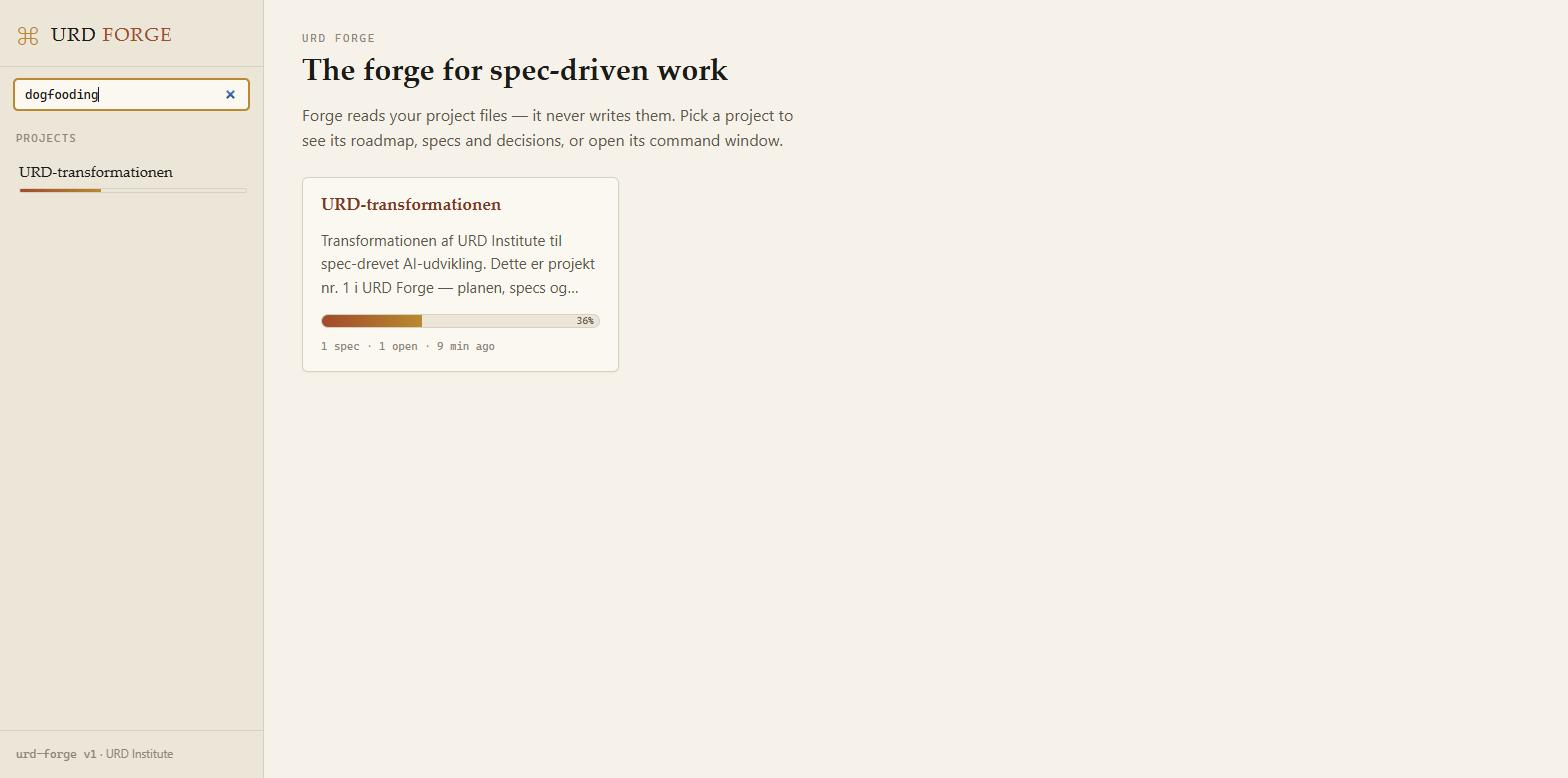
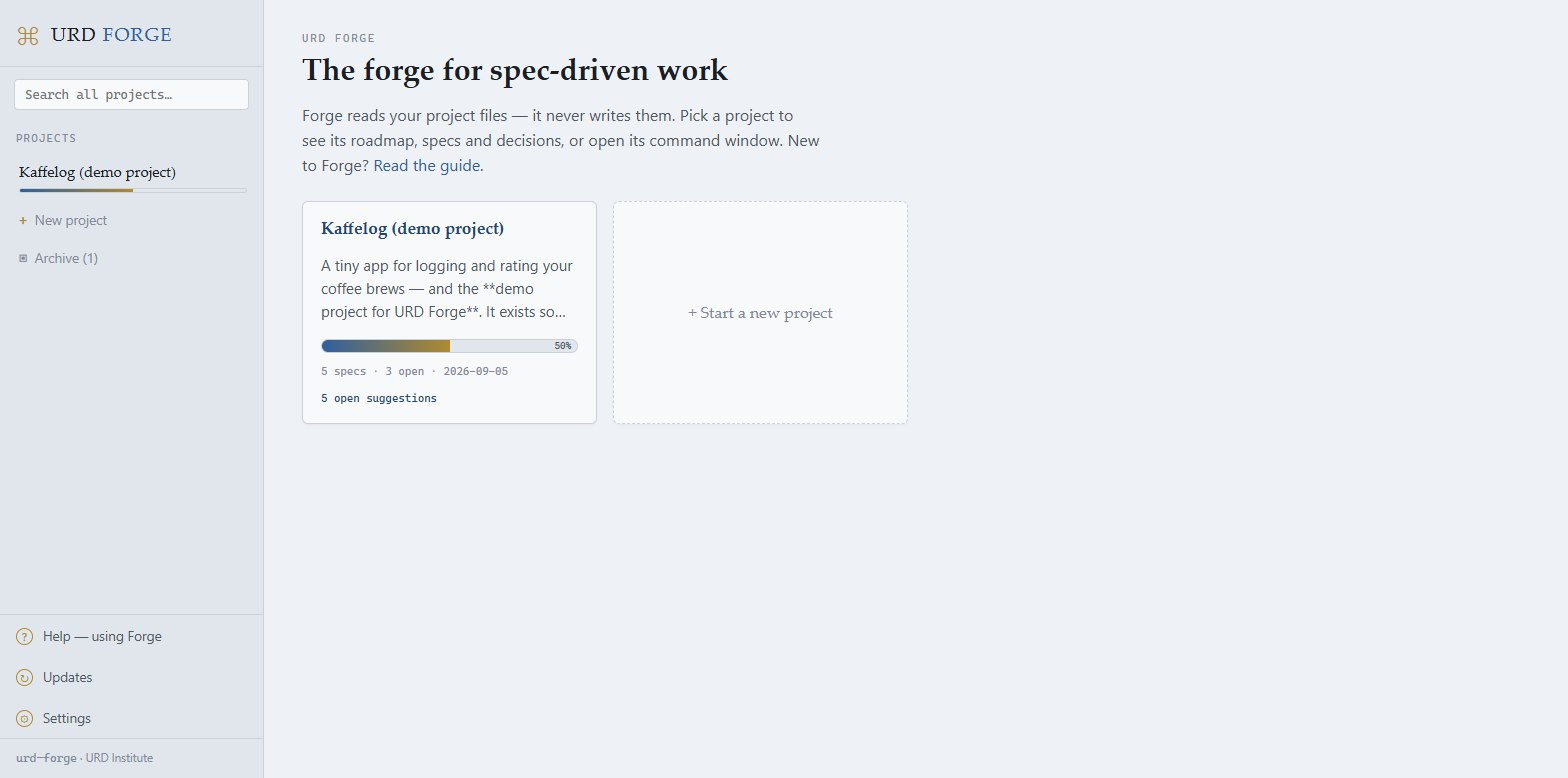
Retake the README screenshots in the Slate scheme and add an Agents shot (v1.1.2)
All four screenshots now show the demo project at 1568x778: the home screen
with the dev-server-aware project card, the roadmap, the terminal docked as a
bottom panel with a Claude Code tab and a preset tab, and the new Agents
screen on its Suggestions tab.

Claude-Session: https://claude.ai/code/session_016pDUJvtkCWnjtySJVPUMwT

diff --git a/README.md b/README.md
@@ -18,7 +18,8 @@ Developed by [URD Institute](https://urdinstitute.org).
 <summary>More screenshots</summary>
 
 ![Project list](docs/screenshots/home.jpg)
-![Command window](docs/screenshots/terminal.jpg)
+![Terminal panel](docs/screenshots/terminal.jpg)
+![Agents and suggestions](docs/screenshots/agents.jpg)
 
 </details>
 
